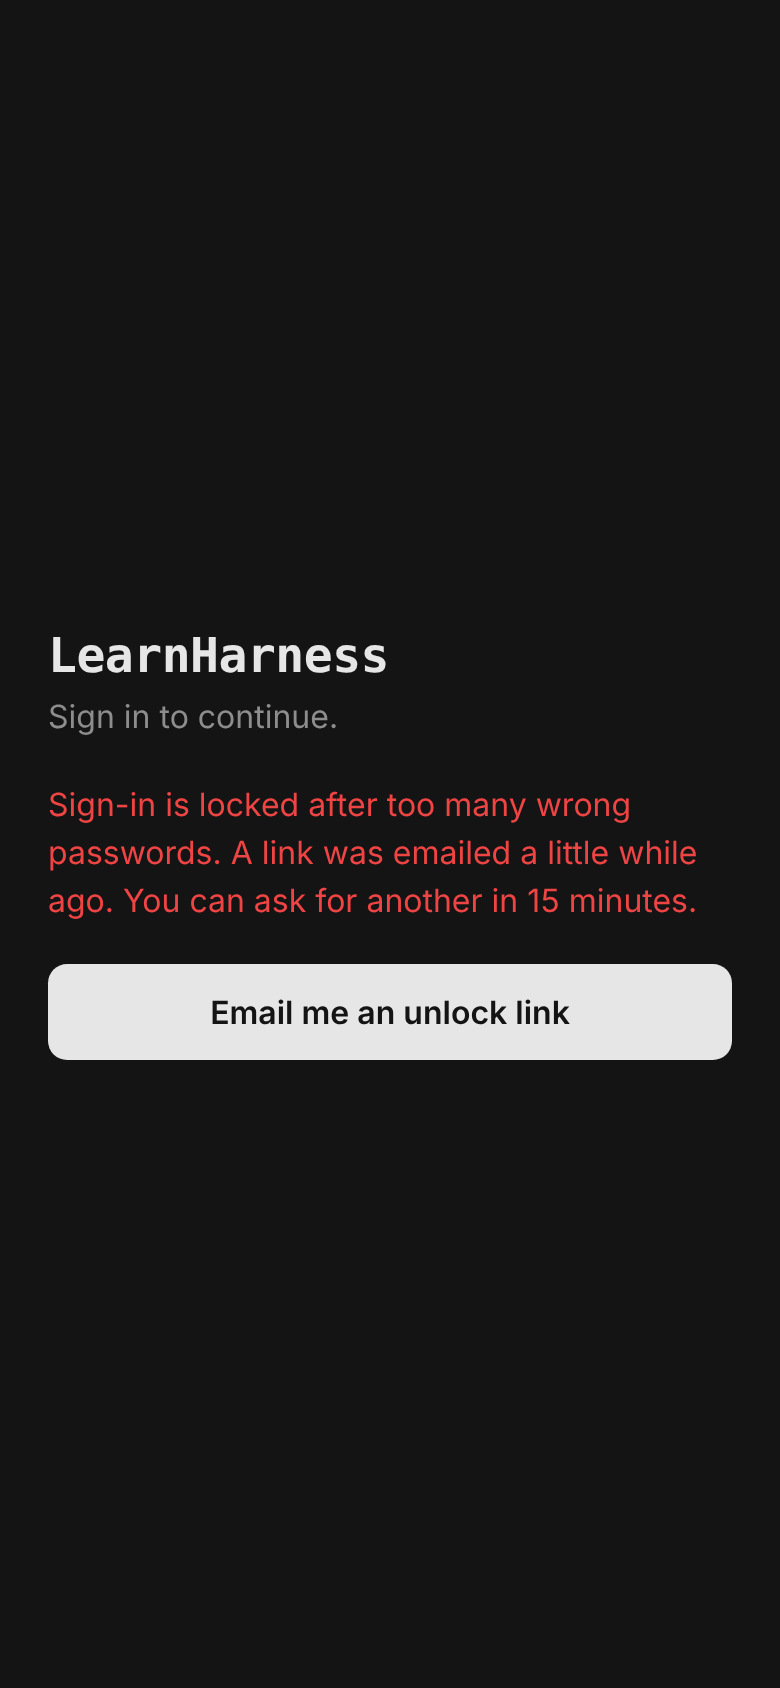
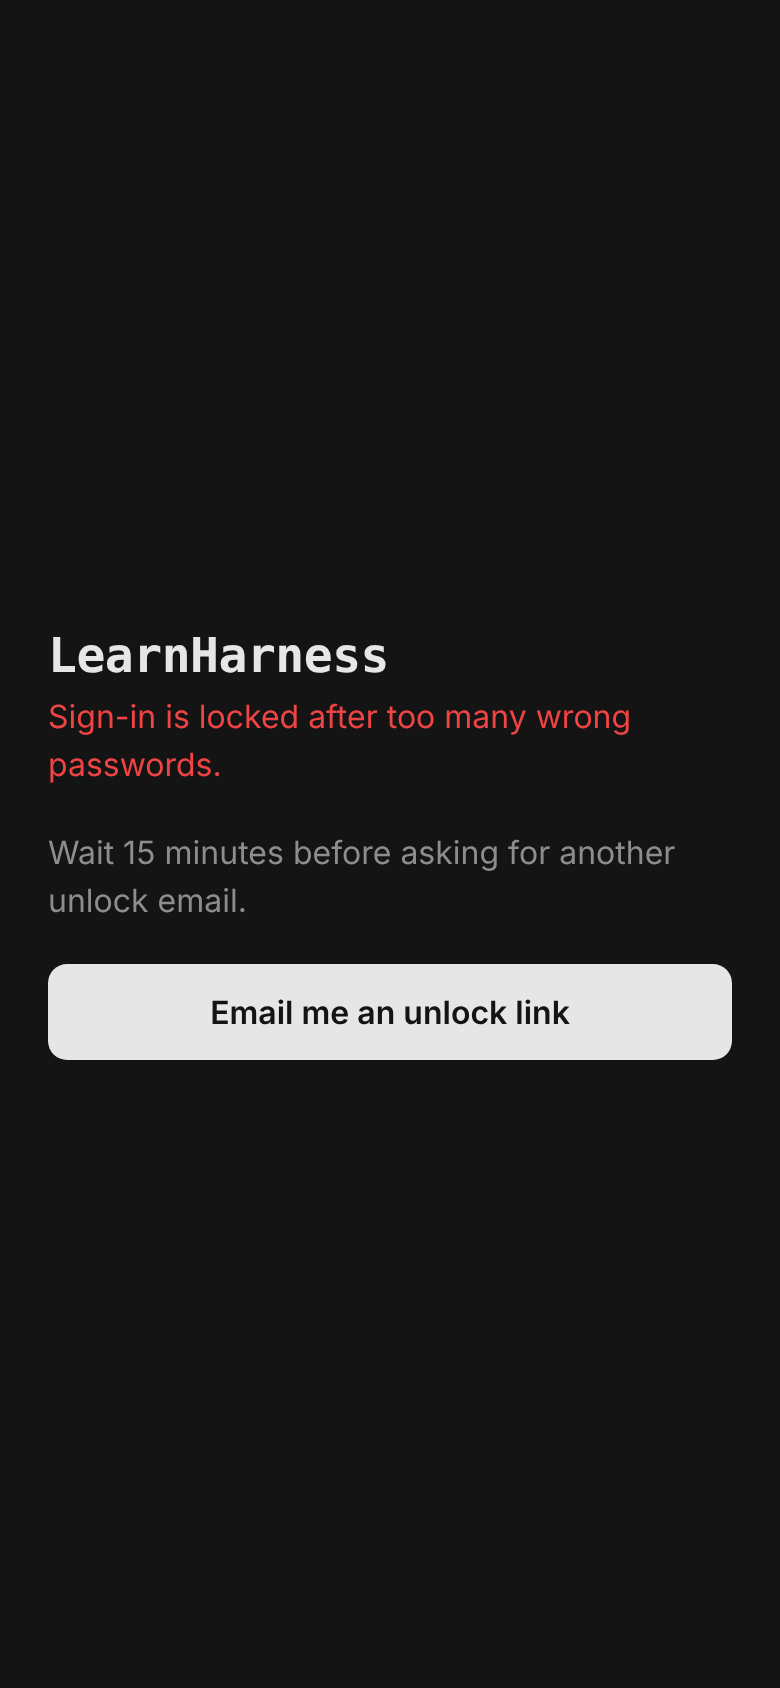
Unlock email: fixes from the independent test of story 2
- A failing `aws` no longer puts the command line in the server's log.
  Node's own error text for a failed command is the whole command line,
  which holds the owner's address and the unlock link; a CLI that exited
  without a word logged both. Now the log says what the CLI printed, or a
  fixed sentence ("aws exited with status 1 and said nothing"), with the
  address and the link scrubbed before the message is cut short.
- The locked page: only "Sign-in is locked…" is red; what to do next is a
  plain note. The wait text no longer claims an email arrived ("Wait N
  minutes before asking for another unlock email"), since a failed send
  counts toward the wait. The "Sign in to continue." line is gone while
  locked.
- An expired or used link says how to get a new one only when email is set
  up; otherwise it names the server command.
- The sender's domain and the link's host are the first non-empty
  LH_ALLOWED_HOSTS name, so a stray comma does not turn the email off.
- Tests for each (fake `aws` exiting silently, a CLI that echoes its
  input, the cut falling inside the link); screenshots regenerated.

Claude-Session: https://claude.ai/code/session_01FjJtUTjid7UtTPWPtqgwKS

Changed region(s): [[0.0615, 0.4005, 0.8923, 0.5545], [0.5846, 0.4005, 0.8, 0.4313], [0.4923, 0.4005, 0.5538, 0.4313]]

diff --git a/tests/access-unlock.test.ts b/tests/access-unlock.test.ts
@@ -39,6 +39,12 @@ const tokenOf = (text: string) => /\/unlock\?token=([A-Za-z0-9_-]+)/.exec(text)?
 const form = (fields: Record<string, string>) => new URLSearchParams(fields).toString();
 const FORM = { "content-type": "application/x-www-form-urlencoded" };
 const navigate = { "sec-fetch-mode": "navigate", accept: "text/html" };
+/** Everything the server prints while the test runs. */
+const captureLog = (t: { mock: { method: (object: object, name: string, replacement: (...args: unknown[]) => void) => unknown } }) => {
+	const logged: string[] = [];
+	for (const level of ["log", "info", "warn", "error"]) t.mock.method(console, level, (...args: unknown[]) => void logged.push(args.join(" ")));
+	return logged;
+};
 
 /** A request as Caddy forwards it. */
 const viaCaddy = (p: string, init: { method?: string; headers?: Record<string, string>; body?: string } = {}) =>
@@ -163,6 +169,13 @@ describe("where the email goes", () => {
 		assert.equal(mail.mailConfig({ LH_ACCESS_EMAIL: OWNER, LH_ALLOWED_HOSTS: "bad host" }), null);
 	});
 
+	it("takes the first name that is not empty, so a stray comma does not turn it off", () => {
+		for (const hosts of [",learn.example.com", " , Learn.Example.com ,x.example.com", ",,learn.example.com"]) {
+			assert.equal(mail.mailConfig({ LH_ACCESS_EMAIL: OWNER, LH_ALLOWED_HOSTS: hosts })?.host, "learn.example.com", hosts);
+		}
+		assert.equal(mail.mailConfig({ LH_ACCESS_EMAIL: OWNER, LH_ALLOWED_HOSTS: " , ," }), null);
+	});
+
 	it("refuses a list, a name part or anything a header could be split on", () => {
 		for (const address of ["a@example.invalid, b@example.invalid", "Owner <a@example.invalid>", "a b@example.invalid", "a@example.invalid\nBcc: x@example.invalid", "a@@example.invalid", "plain", "@example.invalid", '"a"@example.invalid']) {
 			assert.equal(mail.mailConfig({ LH_ACCESS_EMAIL: address, LH_ALLOWED_HOSTS: "learn.example.com" }), null, JSON.stringify(address));
@@ -209,7 +222,31 @@ describe("sending through the AWS CLI", { skip: process.platform === "win32" }, 
 	it("reports a CLI that is not installed", async () => {
 		process.env.PATH = mkdtempSync(path.join(tmpdir(), "lh-empty-path-"));
 		mail.setMailSender();
-		await assert.rejects(mail.sendMail({ to: OWNER, from: "x@example.invalid", subject: "s", text: "t" }), /ENOENT/);
+		await assert.rejects(mail.sendMail({ to: OWNER, from: "x@example.invalid", subject: "s", text: "t" }), /aws command was not found/);
+	});
+
+	it("never puts the command line in the error: a CLI that fails without a word gives a fixed sentence", async () => {
+		fakeAws("exit 3");
+		mail.setMailSender();
+		await assert.rejects(mail.sendMail({ to: OWNER, from: "x@example.invalid", subject: "s", text: "https://learn.example.com/unlock?token=abc" }), (error: Error) => {
+			assert.equal(error.message, "aws exited with status 3 and said nothing");
+			return true;
+		});
+	});
+
+	it("leaves the address and every part of the link out of the log when the CLI fails without a word", async (t) => {
+		const args = path.join(dir, "aws-args-silent.txt");
+		fakeAws(`printf '%s\\n' "$@" > '${args}'; exit 1`);
+		mail.setMailSender();
+		const logged = captureLog(t);
+		lockNow();
+		assert.match(await (await postUnlock()).text(), /could not be sent/);
+		const token = tokenOf(readFileSync(args, "utf8"));
+		assert.equal(token.length, 43, "the fake CLI saw the link");
+		const log = logged.join("\n");
+		assert.match(log, /could not email the unlock link: aws exited with status 1 and said nothing/);
+		assert.ok(!log.toLowerCase().includes(OWNER), "no address");
+		assert.ok(!log.includes(token.slice(0, 12)), "no piece of the link");
 	});
 
 	after(() => {
@@ -279,6 +316,18 @@ describe("when sign-in locks", () => {
 		assert.match(line, /\(address\)/);
 	});
 
+	it("scrubs the link from what the CLI said, even where the 500-character cut would fall inside it", async (t) => {
+		const logged = captureLog(t);
+		mail.setMailSender(async (message) => {
+			throw new Error(`${"x".repeat(480)}${tokenOf(message.text)} then more words after it`);
+		});
+		lockNow();
+		await postUnlock();
+		const line = logged.find((entry) => entry.includes("could not email the unlock link"))!;
+		assert.ok(line.includes("(link)"));
+		assert.ok(!/[A-Za-z0-9_-]{20}/.test(line.replace(/x{20,}/g, "").replace(/could not email the unlock link/, "")), "no run of 20 token-like characters is left");
+	});
+
 	it("keeps the address and the link out of the log, and the link out of the file", async (t) => {
 		const logged: string[] = [];
 		for (const level of ["log", "info", "warn", "error"] as const) t.mock.method(console, level, (...args: unknown[]) => void logged.push(args.join(" ")));
@@ -307,6 +356,18 @@ describe("the Email me an unlock link button", () => {
 		assert.match(sent[0]!.text, /^You asked for an unlock link \(from 203\.0\.113\.7\)\./);
 	});
 
+	it("keeps the red line for the problem and puts what to do next in a plain note", async () => {
+		lockNow();
+		for (const page of [await getLogin().text(), await (await postUnlock()).text()]) {
+			assert.match(page, /<p class="err" role="alert">Sign-in is locked after too many wrong passwords\.<\/p>/);
+			assert.match(page, /<p role="status">[^<]+<\/p>/);
+			assert.ok(!page.includes("Sign in to continue"), "nothing invites a sign-in while it is locked");
+		}
+		assert.match(await (await postUnlock()).text(), /<p role="status">Wait 15 minutes before asking for another unlock email\.<\/p>/);
+		change({ locked: false });
+		assert.match(await getLogin().text(), /Sign in to continue/);
+	});
+
 	it("always links to the site's own name over https, whatever Host the request used", async () => {
 		lockNow();
 		// An IP literal passes the host check, so a request can name one; the link must not follow it.
@@ -332,7 +393,9 @@ describe("the Email me an unlock link button", () => {
 		lockNow();
 		await postUnlock();
 		const first = tokenOf(sent[0]!.text);
-		assert.match(await (await postUnlock()).text(), /emailed a little while ago\. You can ask for another in 15 minutes/);
+		const waiting = await (await postUnlock()).text();
+		assert.match(waiting, /Wait 15 minutes before asking for another unlock email\./);
+		assert.ok(!/was emailed|a link was/i.test(waiting), "a failed send counts toward the wait too, so it does not claim one arrived");
 		assert.equal(sent.length, 1);
 		change({ mailedAt: state().mailedAt! - 16 * MINUTE });
 		assert.match(await (await postUnlock()).text(), /An unlock link was emailed to you/);
@@ -393,6 +456,16 @@ describe("the emailed link", () => {
 			assert.equal((await postUnlock({ token: wrong ?? "" })).status, 410, String(wrong));
 		}
 		assert.equal(state().locked, true);
+	});
+
+	it("points the way forward that exists: a new link when email is set up, the server command when not", async () => {
+		const withEmail = await getUnlock("nope").text();
+		assert.match(withEmail, /Open the sign-in page and ask for a new one\./);
+		delete process.env.LH_ACCESS_EMAIL;
+		const without = await getUnlock("nope").text();
+		assert.match(without, /npm run access -- unlock/);
+		assert.ok(!/ask for a new one/.test(without));
+		assert.match(await (await postUnlock({ token: "nope" })).text(), /npm run access -- unlock/);
 	});
 
 	it("escapes whatever is in the address, so it cannot break out of the page", async () => {

diff --git a/src/server/access-http.ts b/src/server/access-http.ts
@@ -38,17 +38,29 @@ function waitText(ms: number): string {
 	return minutes <= 1 ? "Too many wrong passwords. Try again in a minute." : `Too many wrong passwords. Try again in ${minutes} minutes.`;
 }
 
-/** What the locked page says, given what just happened to the unlock email
- * (nothing, for a page opened later: it cannot know how an earlier send went). */
-function lockedText(sent?: UnlockMail): string {
-	if (sent === "sent") return `${LOCKED} An unlock link was emailed to you. It works for 15 minutes.`;
-	if (sent === "failed") return `${LOCKED} The unlock email could not be sent (the server's log says why). To unlock it, run on the server: npm run access -- unlock`;
+/** What the locked page says besides "locked", given what just happened to
+ * the unlock email (nothing, for a page opened later: it cannot know how an
+ * earlier send went). A failed send counts toward the wait, so the wait text
+ * does not claim that one arrived. */
+function lockedNote(sent?: UnlockMail): string {
+	const onServer = "To unlock it, run on the server: npm run access -- unlock";
+	if (sent === "sent") return "An unlock link was emailed to you. It works for 15 minutes.";
+	if (sent === "failed") return `The unlock email could not be sent (the server's log says why). ${onServer}`;
 	if (typeof sent === "object") {
 		const minutes = Math.max(1, Math.ceil(sent.waitMs / 60_000));
-		return `${LOCKED} A link was emailed a little while ago. You can ask for another in ${minutes === 1 ? "a minute" : `${minutes} minutes`}.`;
+		return `Wait ${minutes === 1 ? "a minute" : `${minutes} minutes`} before asking for another unlock email.`;
 	}
-	if (mailConfig()) return `${LOCKED} Ask for an unlock link by email below, or run on the server: npm run access -- unlock`;
-	return `${LOCKED} To unlock it, run on the server: npm run access -- unlock`;
+	return mailConfig() ? `Ask for an unlock link by email below, or run on the server: npm run access -- unlock` : onServer;
+}
+
+function lockedPage(sent?: UnlockMail): string {
+	return loginPage({ locked: true, canEmail: mailConfig() !== null, message: LOCKED, note: lockedNote(sent) });
+}
+
+/** A link that cannot be used: the way forward depends on whether email is set up. */
+function expiredLinkPage(): string {
+	const forward = mailConfig() ? "Open the sign-in page and ask for a new one." : "To unlock sign-in, run on the server: npm run access -- unlock";
+	return unlockFailedPage(`This unlock link has expired or was already used. ${forward}`);
 }
 
 /** GET /login */
@@ -58,7 +70,7 @@ export function accessSignInPage(request: Request): Response {
 	const next = safeNext(new URL(request.url).searchParams.get("next"));
 	const token = cookieValue(request.headers.get("cookie"), sessionCookieName(overHttps(request)));
 	if (readSession(state.sessionKey, token, Date.now())) return redirect(next);
-	return html(200, loginPage({ next, locked: state.locked, canEmail: mailConfig() !== null, message: state.locked ? lockedText() : "" }));
+	return html(200, state.locked ? lockedPage() : loginPage({ next }));
 }
 
 /** POST /login */
@@ -68,7 +80,7 @@ export async function accessSignIn(request: Request): Promise<Response> {
 	const next = safeNext(form?.get("next"));
 	const state = readAccessState();
 	if (!state.password) return html(409, notSetUpPage());
-	if (state.locked) return html(423, loginPage({ next, locked: true, canEmail: mailConfig() !== null, message: lockedText() }));
+	if (state.locked) return html(423, lockedPage());
 
 	const client = clientAddress(request);
 	const wait = limiter.waitMs(client, Date.now());
@@ -89,7 +101,7 @@ export async function accessSignIn(request: Request): Promise<Response> {
 		console.warn(`[access] wrong password from ${client}${after.locked ? " (sign-in is now locked)" : ""}`);
 		if (after.locked) {
 			const sent = await emailUnlockLink(`Sign-in was locked after ${after.failures.length} wrong passwords within an hour, the latest from ${client}.`);
-			return html(423, loginPage({ next, locked: true, canEmail: mailConfig() !== null, message: lockedText(sent) }));
+			return html(423, lockedPage(sent));
 		}
 		const delay = limiter.waitMs(client, now);
 		return html(401, loginPage({ next, message: delay > 0 ? waitText(delay) : "That password is not right." }));
@@ -105,7 +117,7 @@ export async function accessSignIn(request: Request): Promise<Response> {
 export function accessUnlockPage(request: Request): Response {
 	if (!readAccessState().password) return html(200, notSetUpPage());
 	const token = new URL(request.url).searchParams.get("token");
-	if (token === null || !unlockTokenValid(token, Date.now())) return html(410, unlockFailedPage());
+	if (token === null || !unlockTokenValid(token, Date.now())) return html(410, expiredLinkPage());
 	return html(200, unlockPage(token));
 }
 
@@ -118,13 +130,13 @@ export async function accessUnlock(request: Request): Promise<Response> {
 	if (!state.password) return html(409, notSetUpPage());
 	const token = form?.get("token");
 	if (token !== null && token !== undefined) {
-		if (!redeemUnlockToken(token, Date.now())) return html(410, unlockFailedPage());
+		if (!redeemUnlockToken(token, Date.now())) return html(410, expiredLinkPage());
 		console.info("[access] sign-in unlocked with an emailed link");
 		return html(200, unlockedPage());
 	}
 	if (!state.locked) return redirect("/login");
 	const sent = await emailUnlockLink(`You asked for an unlock link (from ${clientAddress(request)}).`);
-	return html(200, loginPage({ locked: true, canEmail: mailConfig() !== null, message: lockedText(sent) }));
+	return html(200, lockedPage(sent));
 }
 
 /** GET /logout: a button, because a link or a prefetch must not sign anyone out. */

diff --git a/src/server/access-mail.ts b/src/server/access-mail.ts
@@ -14,7 +14,7 @@
  *  - Limit, kept in access.json: one email per 15 minutes.
  */
 
-import { execFile } from "node:child_process";
+import { type ExecFileException, execFile } from "node:child_process";
 import { issueUnlockToken, mailWaitMs, recordMail } from "./access-session.ts";
 
 export interface Mail {
@@ -39,7 +39,7 @@ const HOST = /^[a-z0-9.-]+$/;
 /** Where to send and from, or null when the server has no address set. */
 export function mailConfig(env: Env = process.env): MailConfig | null {
 	const to = env.LH_ACCESS_EMAIL?.trim();
-	const host = (env.LH_ALLOWED_HOSTS ?? "").split(",")[0]?.trim().toLowerCase();
+	const host = (env.LH_ALLOWED_HOSTS ?? "").split(",").map((name) => name.trim().toLowerCase()).find(Boolean);
 	if (!to || !ADDRESS.test(to) || !host || !HOST.test(host)) return null;
 	return { to, from: `LearnHarness <no-reply@${host}>`, host };
 }
@@ -47,6 +47,17 @@ export function mailConfig(env: Env = process.env): MailConfig | null {
 /** t***@example.com, for the server's own terminal. */
 export function maskEmail(address: string): string {
 	return address.replace(/^(.).*(@.*)$/, "$1***$2");
+}
+
+/** Why `aws` failed, in words that cannot carry the message. execFile's own
+ * error text is the whole command line, which holds the address and the link,
+ * so only what the CLI printed (or a fixed sentence) is ever used. */
+function whyAwsFailed(error: ExecFileException, stderr: string): string {
+	const said = stderr.trim();
+	if (said) return said;
+	if (error.code === "ENOENT") return "the aws command was not found (ENOENT); install the AWS CLI on the server";
+	if (error.killed) return "aws did not finish within 15 seconds";
+	return `aws exited with status ${error.code ?? "unknown"} and said nothing`;
 }
 
 function sendWithAwsCli(mail: Mail): Promise<void> {
@@ -61,7 +72,7 @@ function sendWithAwsCli(mail: Mail): Promise<void> {
 			["sesv2", "send-email", "--no-cli-pager", "--cli-input-json", input],
 			{ timeout: 15_000, maxBuffer: 64 * 1024 },
 			(error, _stdout, stderr) => {
-				if (error) reject(new Error(String(stderr || error.message).trim().slice(0, 500)));
+				if (error) reject(new Error(whyAwsFailed(error, String(stderr))));
 				else resolve();
 			},
 		);
@@ -93,9 +104,12 @@ export function unlockMailText(reason: string, link: string): string {
 
 export type UnlockMail = "sent" | "failed" | "not-configured" | { waitMs: number };
 
-/** What the CLI said, without the address: an SES rejection can name it. */
-function withoutAddress(text: string, address: string): string {
-	return text.split(address).join("(address)").replace(new RegExp(address.replace(/[.*+?^${}()|[\]\\]/g, "\\$&"), "gi"), "(address)");
+/** What the CLI said, without the address or the link (an SES rejection can
+ * name the address, and a CLI that echoes its input would show the link),
+ * then cut short. The cut comes last, so it cannot leave half a token behind. */
+function scrubbed(text: string, address: string, token: string): string {
+	const escape = (value: string) => value.replace(/[.*+?^${}()|[\]\\]/g, "\\$&");
+	return text.replace(new RegExp(escape(address), "gi"), "(address)").replace(new RegExp(escape(token), "g"), "(link)").trim().slice(0, 500);
 }
 
 /** Emails a fresh unlock link when an address is set and the 15-minute gap
@@ -110,14 +124,15 @@ export async function emailUnlockLink(
 	const waitMs = mailWaitMs(now, file);
 	if (waitMs > 0) return { waitMs };
 	recordMail(now, file);
-	const link = `https://${config.host}/unlock?token=${issueUnlockToken(now, file)}`;
+	const token = issueUnlockToken(now, file);
+	const link = `https://${config.host}/unlock?token=${token}`;
 	try {
 		await sender({ to: config.to, from: config.from, subject: "LearnHarness sign-in is locked", text: unlockMailText(reason, link) });
 		console.info("[access] unlock link emailed");
 		return "sent";
 	} catch (error) {
 		const said = error instanceof Error ? error.message : String(error);
-		console.error(`[access] could not email the unlock link: ${withoutAddress(said, config.to)}`);
+		console.error(`[access] could not email the unlock link: ${scrubbed(said, config.to, token)}`);
 		return "failed";
 	}
 }

diff --git a/src/server/access-pages.ts b/src/server/access-pages.ts
@@ -49,11 +49,14 @@ ${body}
 </main></body></html>`;
 }
 
-/** `locked` hides the form: nothing to type until the lock is cleared. With an
- * address set up (`canEmail`) it offers a button that emails an unlock link. */
-export function loginPage({ next = "/", message = "", locked = false, canEmail = false }: { next?: string; message?: string; locked?: boolean; canEmail?: boolean } = {}): string {
-	return shell("Sign in", `<p>Sign in to continue.</p>
+/** `message` is a problem (red); `note` is plain information, such as what
+ * happened to the unlock email. `locked` hides the form: nothing to type until
+ * the lock is cleared. With an address set up (`canEmail`) it offers a button
+ * that emails an unlock link. */
+export function loginPage({ next = "/", message = "", note = "", locked = false, canEmail = false }: { next?: string; message?: string; note?: string; locked?: boolean; canEmail?: boolean } = {}): string {
+	return shell("Sign in", `${locked ? "" : "<p>Sign in to continue.</p>"}
 ${message ? `<p class="err" role="alert">${escapeHTML(message)}</p>` : ""}
+${note ? `<p role="status">${escapeHTML(note)}</p>` : ""}
 ${locked ? (canEmail ? `<form method="post" action="/unlock"><button type="submit">Email me an unlock link</button></form>` : "") : `<form method="post" action="/login">
 <input type="hidden" name="next" value="${escapeHTML(next)}">
 <input class="hidden" type="text" name="username" value="owner" autocomplete="username" tabindex="-1" aria-hidden="true">
@@ -79,7 +82,7 @@ export function unlockedPage(): string {
 <a class="btn" href="/login">Go to sign in</a>`);
 }
 
-export function unlockFailedPage(message = "This unlock link has expired or was already used. Open the sign-in page to ask for a new one."): string {
+export function unlockFailedPage(message: string): string {
 	return shell("Unlock", `<p class="err" role="alert">${escapeHTML(message)}</p>
 <a class="btn" href="/login">Go to sign in</a>`);
 }

diff --git a/docs/mobile/login.md b/docs/mobile/login.md
@@ -60,9 +60,9 @@ Built on the epic branch as the first story. Where the build differs from the de
 ## As built (story 2): unlock by email link
 
 - **When it is sent.** If `LH_ACCESS_EMAIL` is set, the sign-in that locks (the 20th wrong password) emails one link to that address, and the locked page says so. The locked page also has an **Email me an unlock link** button for another. With no address set, nothing is sent and the page says how to unlock on the server.
-- **The link** is `https://<site name>/unlock?token=…`. The site name is the first `LH_ALLOWED_HOSTS` name, the same one the sender uses, never the Host a request happened to carry (an IP literal passes the host check, so a request could otherwise steer the link elsewhere). Opening it shows an **Unlock** button and spends nothing, so a mail scanner's preview unlocks nothing. Pressing the button unlocks once. It works for 15 minutes, only the newest link works, and the token is stored only as a hash in `access.json`.
+- **The link** is `https://<site name>/unlock?token=…`. The site name is the first non-empty `LH_ALLOWED_HOSTS` name, the same one the sender uses, never the Host a request happened to carry (an IP literal passes the host check, so a request could otherwise steer the link elsewhere). Opening it shows an **Unlock** button and spends nothing, so a mail scanner's preview unlocks nothing. Pressing the button unlocks once. It works for 15 minutes, only the newest link works, and the token is stored only as a hash in `access.json`.
 - **Limit: one email per 15 minutes, and no daily cap.** The design above said "and five a day". The independent review showed why that is wrong: a stranger can lock sign-in and press the button four more times in an hour, and the owner then has no way to get a link for about 22 hours. The 15-minute gap alone allows at most 96 emails a day. The time of the last send is kept in `access.json`, and a send that fails still counts, so a broken setup cannot loop. The button is refused with the wait when the gap applies, and does nothing when sign-in is not locked.
-- **Sending** is `aws sesv2 send-email` through the AWS CLI found on the service's `PATH`, run without a shell. The CLI signs with the EC2 instance's role, so no keys are stored and no SDK is added to the app. The sender is `LearnHarness <no-reply@<site name>>`. The page tells the truth right after a lock or a button press: sent, could not be sent (the server's log has what the CLI said, with the address scrubbed, never the link), or wait. A locked page opened later cannot know how an earlier send went, so it only offers the button.
+- **Sending** is `aws sesv2 send-email` through the AWS CLI found on the service's `PATH`, run without a shell. The CLI signs with the EC2 instance's role, so no keys are stored and no SDK is added to the app. The sender is `LearnHarness <no-reply@<site name>>`. The page tells the truth right after a lock or a button press: sent, could not be sent (the server's log has what the CLI said, with the address and the link scrubbed), or wait (which does not claim a link arrived, since a failed send counts toward the wait). A locked page opened later cannot know how an earlier send went, so it only offers the button. On the page only the problem ("Sign-in is locked…") is red; what to do next is plain text. The log never gets the command line either: when the CLI prints nothing, the log says only that `aws` exited with a status, because Node's own error text for a failed command is the whole command line, address and link included.
 - **What the AWS setup (story 8) must provide:** an SES identity for the sending domain; the recipient verified too while the SES account is still in the sandbox; `ses:SendEmail` on the instance role; the AWS CLI on the box; and `LH_ACCESS_EMAIL`, `LH_ALLOWED_HOSTS` and `AWS_REGION` in the service's environment.
 - **Check it:** `npm run access -- test-email` sends a test message the same way and prints the CLI's own error if it fails (in your terminal, so it may name the address). `npm run access -- status` shows the masked address, the sender and when the last email went. The tests put a stand-in `aws` first on `PATH`.
 - **`/unlock`** is a public path, like `/login`; everything else still needs a session.
